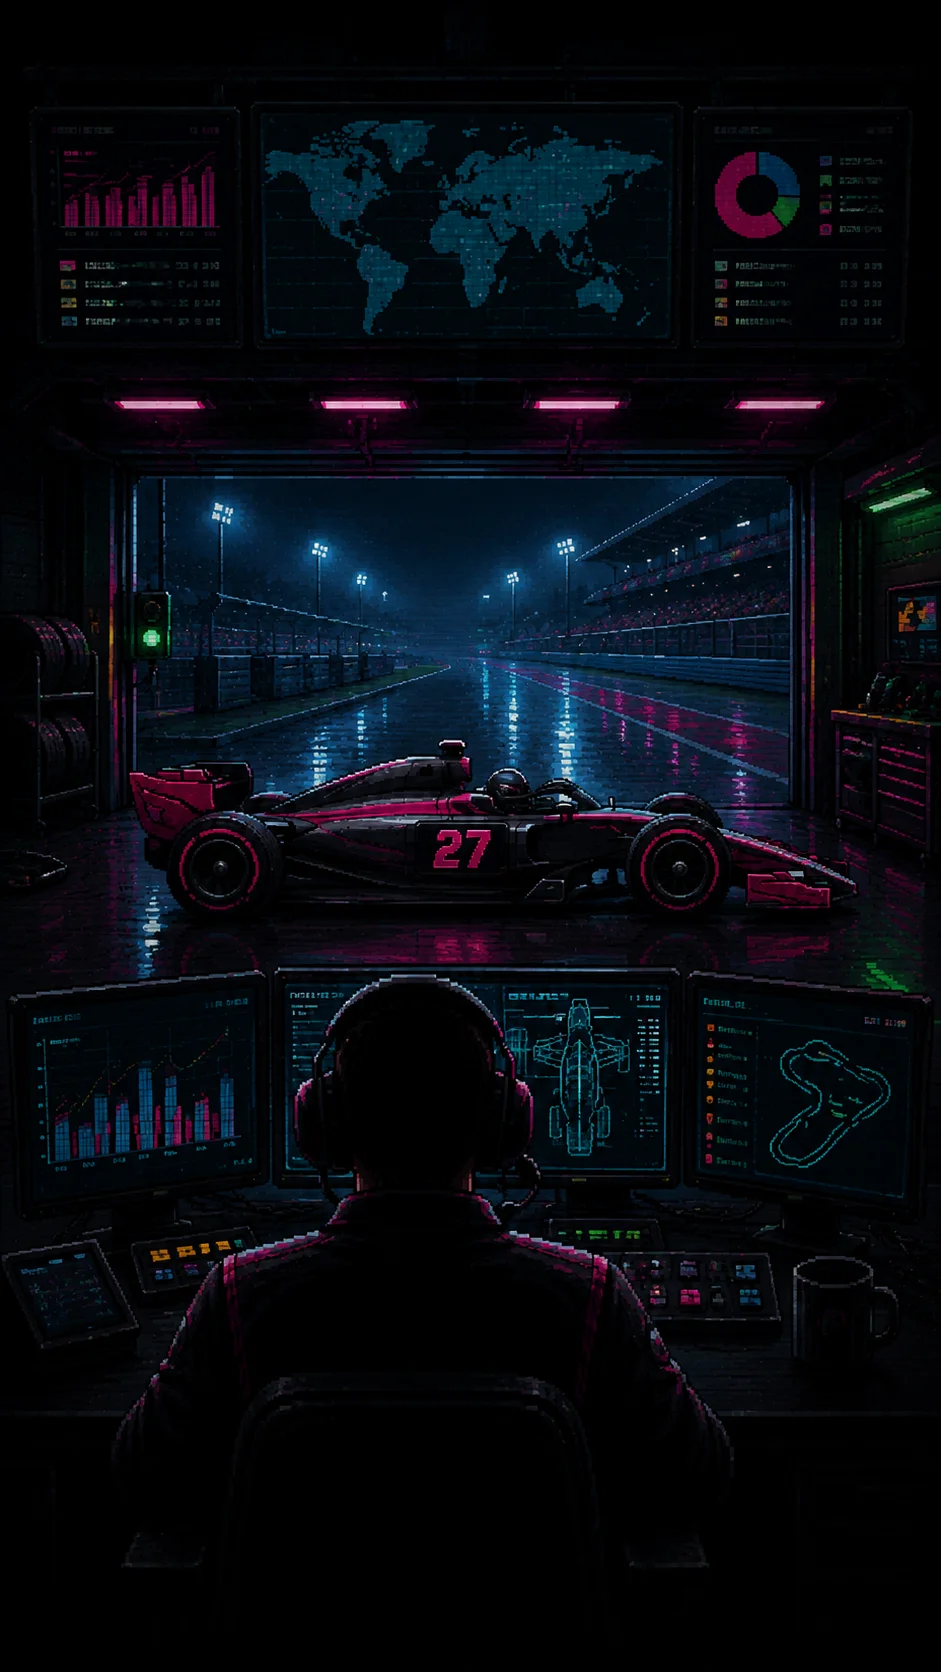
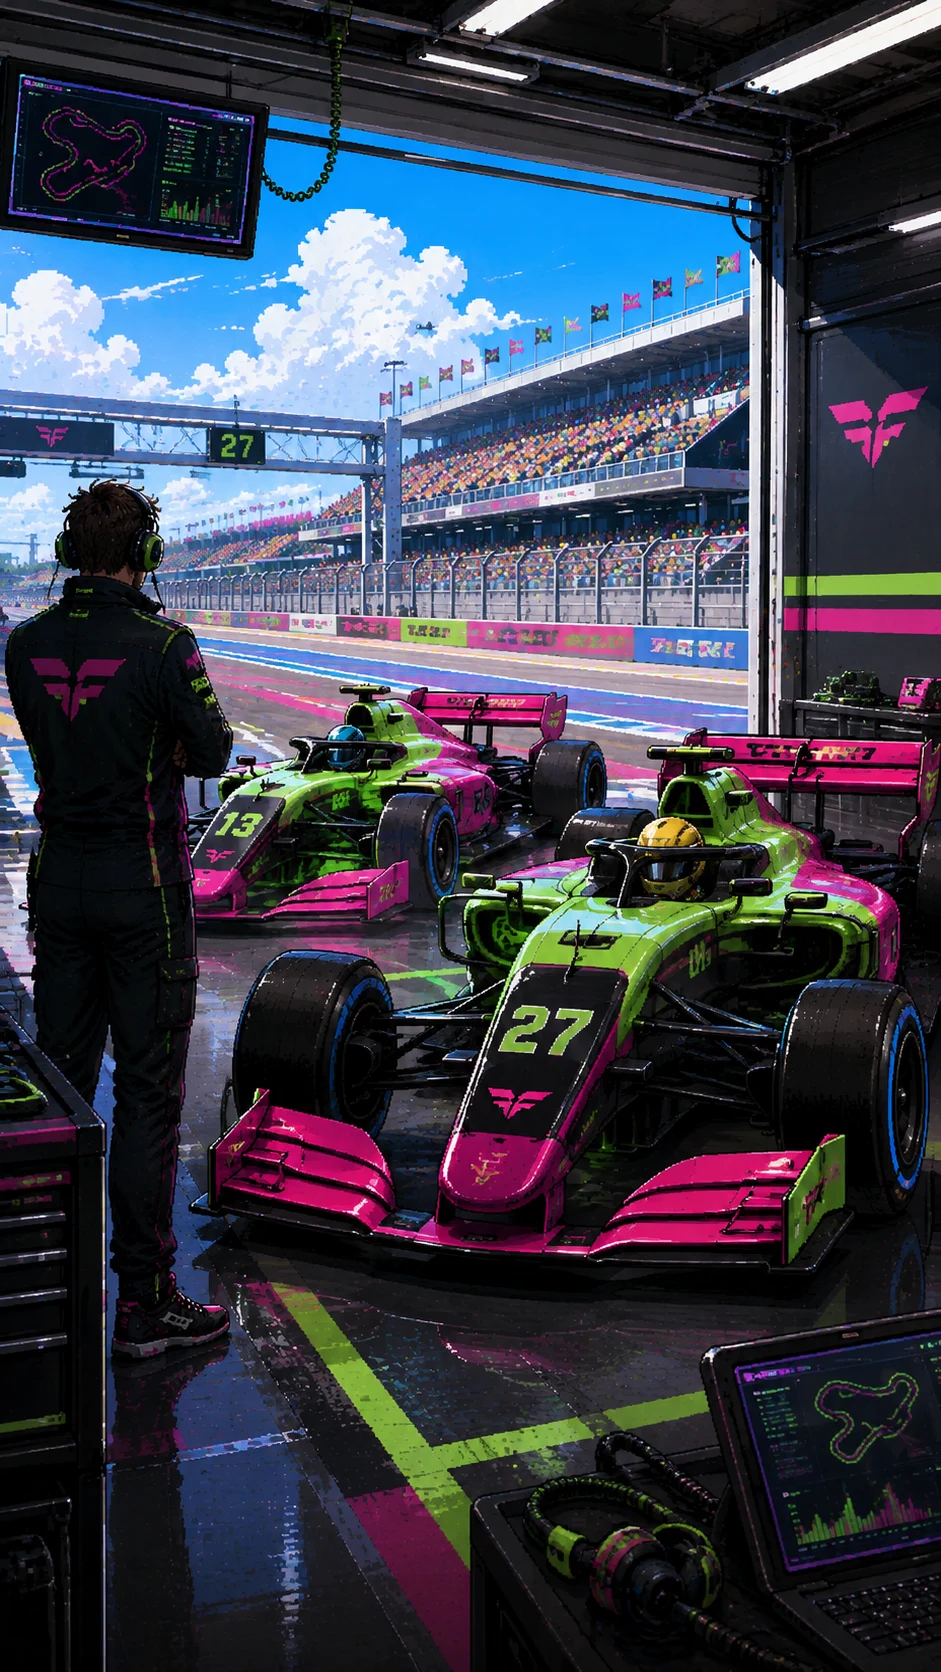
Sostituite le immagini del bivio modalita' con le versioni finali fornite (due auto per Stagione Scuderia, pilota con trofeo per Carriera Pilota). Ridisegnate le card: immagine di sfondo a tutta altezza (card piu' alte, non piu' tagliate cosi' tanto), testo sovrapposto in basso con sfumatura scura p

diff --git a/game.js b/game.js
@@ -4965,16 +4965,24 @@ function renderModeSelect(){
   </div>
   <div class="grid grid-2 mode-select-grid">
     <div class="card pickable mode-select-card" data-rarity="Rare" data-action="go-to-season-length">
-      <img class="mode-select-img" src="assets/mode-select/team-season.webp" alt="">
-      <span class="rarity-tag" data-rarity="Rare" style="font-size:11.5px;">🏎 ${t('mode_select_team')}</span>
-      <div class="ability" style="font-size:14px;margin-top:8px;">${t('mode_select_team_desc')}</div>
-      <div class="card-tap-hint" style="font-size:12px;">${t('mode_select_team_hint')}</div>
+      <img class="mode-select-bg-img" src="assets/mode-select/team-season.webp" alt="">
+      <div class="mode-select-top">
+        <span class="rarity-tag" data-rarity="Rare" style="font-size:11.5px;">🏎 ${t('mode_select_team')}</span>
+      </div>
+      <div class="mode-select-bottom-scrim">
+        <div class="ability" style="font-size:14px;">${t('mode_select_team_desc')}</div>
+        <div class="card-tap-hint" style="font-size:12px;">${t('mode_select_team_hint')}</div>
+      </div>
     </div>
     <div class="card pickable garage-coming-soon mode-select-card" data-rarity="Legendary" data-action="request-password-gate" data-gate-for="driver-creation">
-      <img class="mode-select-img" src="assets/mode-select/driver-career.webp" alt="">
-      <span class="rarity-tag" data-rarity="Legendary" style="font-size:11.5px;">🏁 ${t('mode_select_driver')}</span>
-      <div class="ability" style="font-size:14px;margin-top:8px;">${t('mode_select_driver_desc')}</div>
-      <div class="card-tap-hint" style="color:var(--legendary);font-weight:800;font-size:12px;">${t('sl_garage_soon')}</div>
+      <img class="mode-select-bg-img" src="assets/mode-select/driver-career.webp" alt="">
+      <div class="mode-select-top">
+        <span class="rarity-tag" data-rarity="Legendary" style="font-size:11.5px;">🏁 ${t('mode_select_driver')}</span>
+      </div>
+      <div class="mode-select-bottom-scrim">
+        <div class="ability" style="font-size:14px;">${t('mode_select_driver_desc')}</div>
+        <div class="card-tap-hint" style="color:var(--legendary);font-weight:800;font-size:12px;">${t('sl_garage_soon')}</div>
+      </div>
     </div>
   </div>
   `;

diff --git a/index.html b/index.html
@@ -131,8 +131,17 @@ button:disabled{opacity:0.35;cursor:not-allowed;transform:none !important;}
 .grid-2{grid-template-columns:repeat(2,1fr);}
 .grid-4{grid-template-columns:repeat(4,1fr);}
 @media (max-width:820px){.grid-3{grid-template-columns:1fr;}.grid-2{grid-template-columns:1fr;}.grid-4{grid-template-columns:repeat(2,1fr);}.mode-select-grid{grid-template-columns:repeat(2,1fr)!important;gap:8px;}}
-.mode-select-card{ padding-top:0; overflow:hidden; }
-.mode-select-img{ width:calc(100% + 32px); margin:0 -16px 10px; display:block; aspect-ratio:941/560; object-fit:cover; object-position:top; }
+.mode-select-card{ padding:0; overflow:hidden; position:relative; min-height:480px; border-top:none; }
+.mode-select-card[data-rarity="Rare"]{ border-top:none; box-shadow:inset 0 0 0 1px var(--common); }
+.mode-select-bg-img{ position:absolute; inset:0; width:100%; height:100%; object-fit:cover; object-position:center 15%; z-index:0; }
+.mode-select-top{ position:relative; z-index:2; padding:12px 12px 0; }
+.mode-select-top .rarity-tag{ background:rgba(10,10,14,0.72); backdrop-filter:blur(2px); }
+.mode-select-bottom-scrim{
+  position:absolute; left:0; right:0; bottom:0; z-index:2; padding:28px 14px 14px;
+  background:linear-gradient(to top, rgba(8,8,11,0.97) 0%, rgba(8,8,11,0.88) 45%, rgba(8,8,11,0.35) 80%, transparent 100%);
+}
+.mode-select-bottom-scrim .ability{ border-top:none; padding-top:0; margin-top:0; color:var(--text); text-shadow:0 1px 3px rgba(0,0,0,0.6); }
+.mode-select-bottom-scrim .card-tap-hint{ border-top:1px dashed rgba(255,255,255,0.25); margin-top:8px; }
 
 .card{
   background:var(--panel2);border:1px solid var(--line);border-radius:6px;padding:16px;
